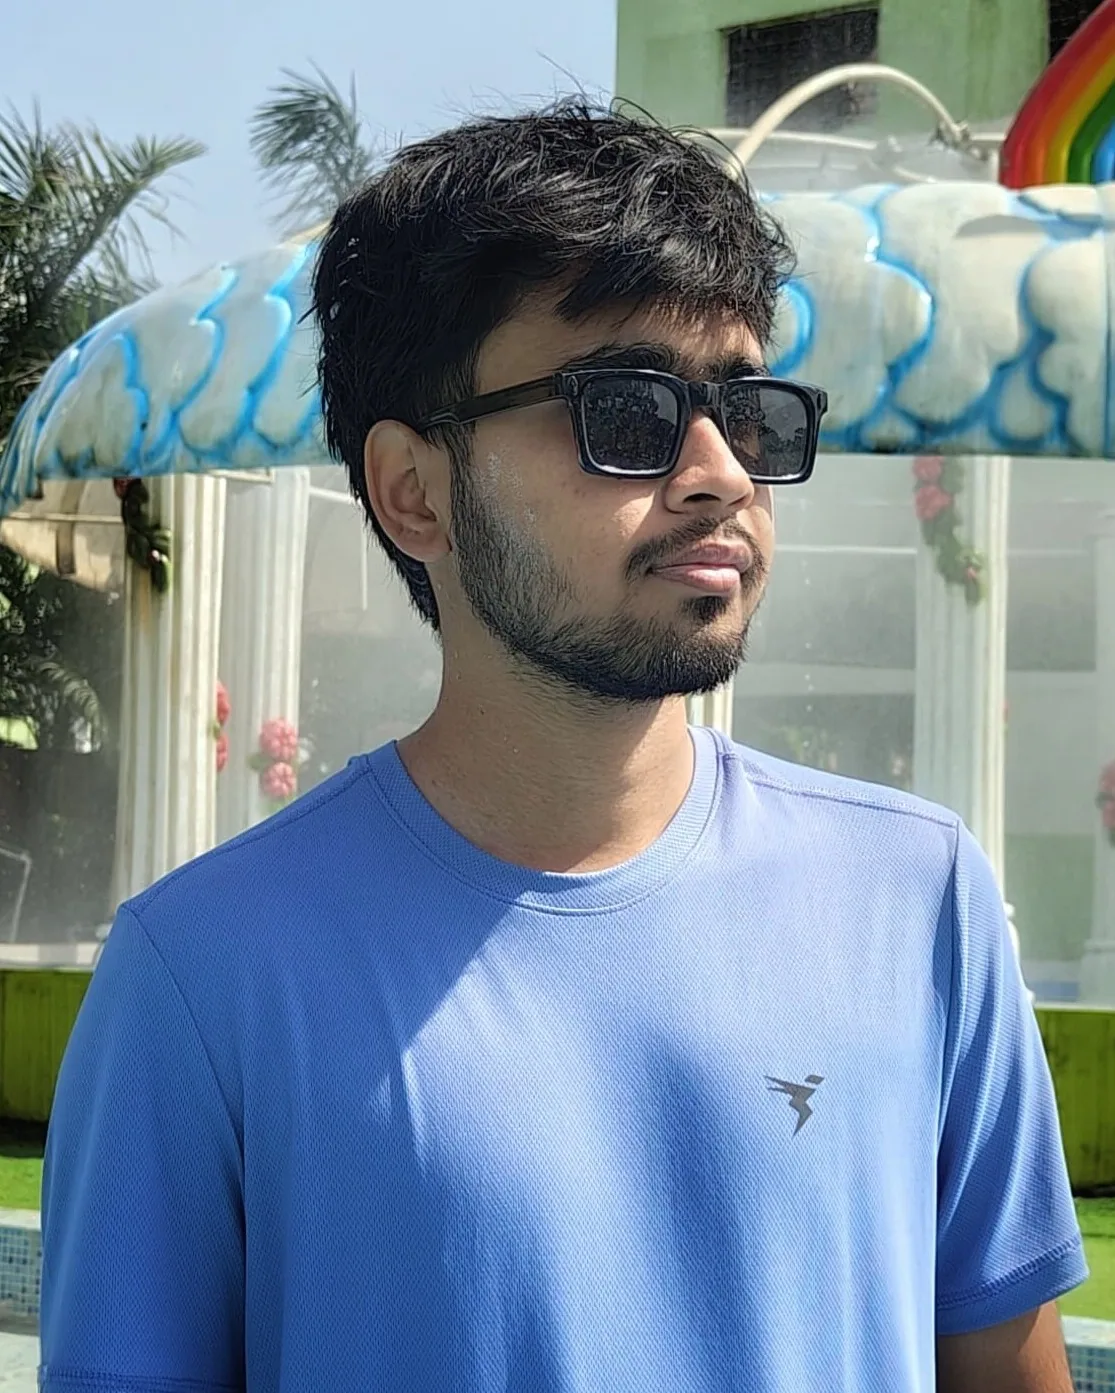
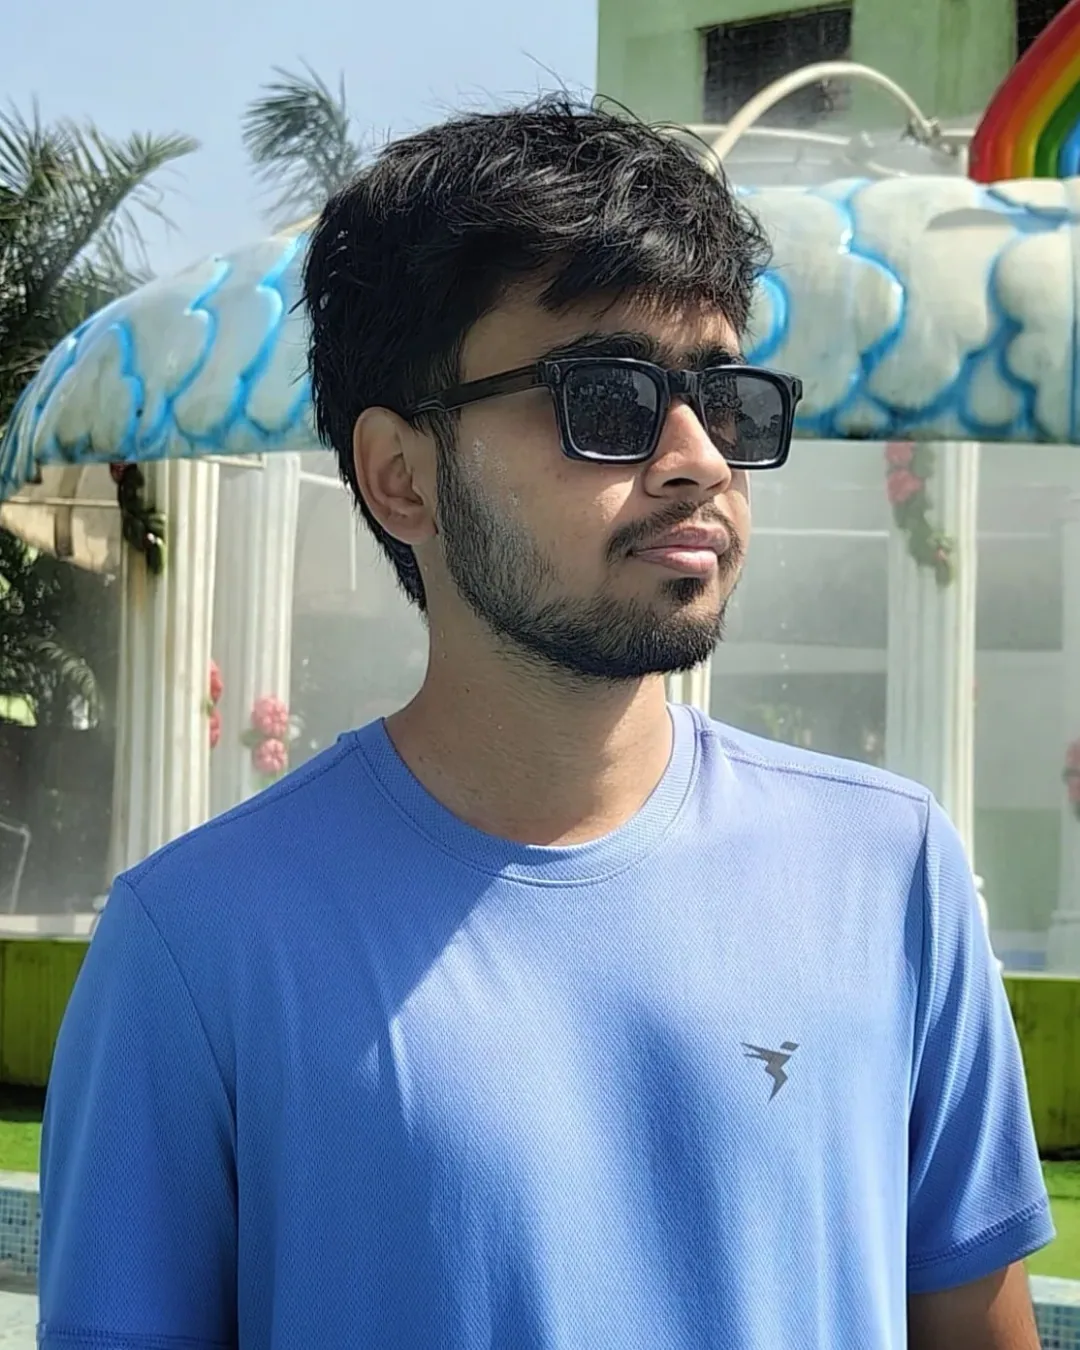
refactor: update carousel layout and adjust image aspect ratios on About page
- Refine carousel height for large screens and standardize image dimensions.
- Update local officer photo assets to latest versions.

diff --git a/src/frontend/app/about/page.tsx b/src/frontend/app/about/page.tsx
@@ -62,7 +62,7 @@ function OfficerCarousel({ title, officers }: { title: string; officers: ClubOff
           No {title.toLowerCase()} profiles have been added yet.
         </p>
       ) : (
-        <div className="relative mx-auto h-[25rem] max-w-4xl overflow-hidden sm:h-[29rem] lg:h-auto lg:aspect-[16/7]" aria-roledescription="carousel">
+        <div className="relative mx-auto h-[25rem] max-w-4xl overflow-hidden sm:h-[29rem] lg:h-[32rem]" aria-roledescription="carousel">
           {carouselOffsets.map((offset) => {
             const officerIndex = (index + offset + sortedOfficers.length) % sortedOfficers.length;
             const officer = sortedOfficers[officerIndex];
@@ -73,7 +73,7 @@ function OfficerCarousel({ title, officers }: { title: string; officers: ClubOff
                 className="absolute top-0 w-[32%] border border-[#33343b] bg-[#191b22]"
                 style={{ left: `${17 + offset * 34}%` }}
               >
-                <div className="relative aspect-[16/15] overflow-hidden bg-[#111319]">
+                <div className="relative aspect-[4/5] overflow-hidden bg-[#111319]">
                   <Image
                     src={officerPhoto(officer)}
                     alt={officer.name}
